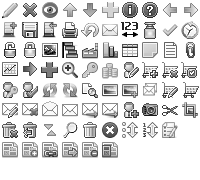
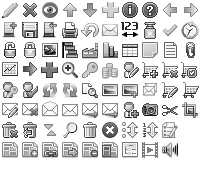
* Ajustes estilo y diseño * Mejora visibilidad de pagina de atachments, agrego allistado el icono para ver lso attahcments de los headlines parseados

Changed region(s): [[0.6, 0.7778, 0.9, 0.8889]]

diff --git a/GCABA/mdp/css/globalCustom.css b/GCABA/mdp/css/globalCustom.css
@@ -208,6 +208,12 @@ input[type="submit"].icon, input[type="button"].icon {
 	background-position: -80px -140px !Important; }
 .iconNewsClipping {
 	background-position: -100px -140px !Important; }
+.iconNodes {
+	background-position: -120px -140px !Important; }
+.iconAudio {
+	background-position: -140px -140px !Important; }
+.iconVideo {
+	background-position: -160px -140px !Important; }
 .icon:hover,input[type="submit"].icon:hover, input[type="button"].icon:hover  {
 	background-color: #b9b9b9 !Important;
 	border: 1px solid #a3a3a3 !Important;

diff --git a/GCABA/mdp/css/style.css b/GCABA/mdp/css/style.css
@@ -267,3 +267,24 @@ body {
 fieldset fieldset.noMargin {
 	margin-left: 10px !Important;
 }
+.inline {
+	display: inline !Important;
+}
+.block {
+	display: block !Important;
+}
+.floatLeft {
+	float: left !Important;
+}
+.floatRight {
+	float: rigth !Important;
+}
+.baseline {
+	vertical-align: baseline !Important;
+}
+.textBottom {
+	vertical-align: text-bottom !Important;
+}
+.bottom {
+	vertical-align: bottom !Important;
+}
